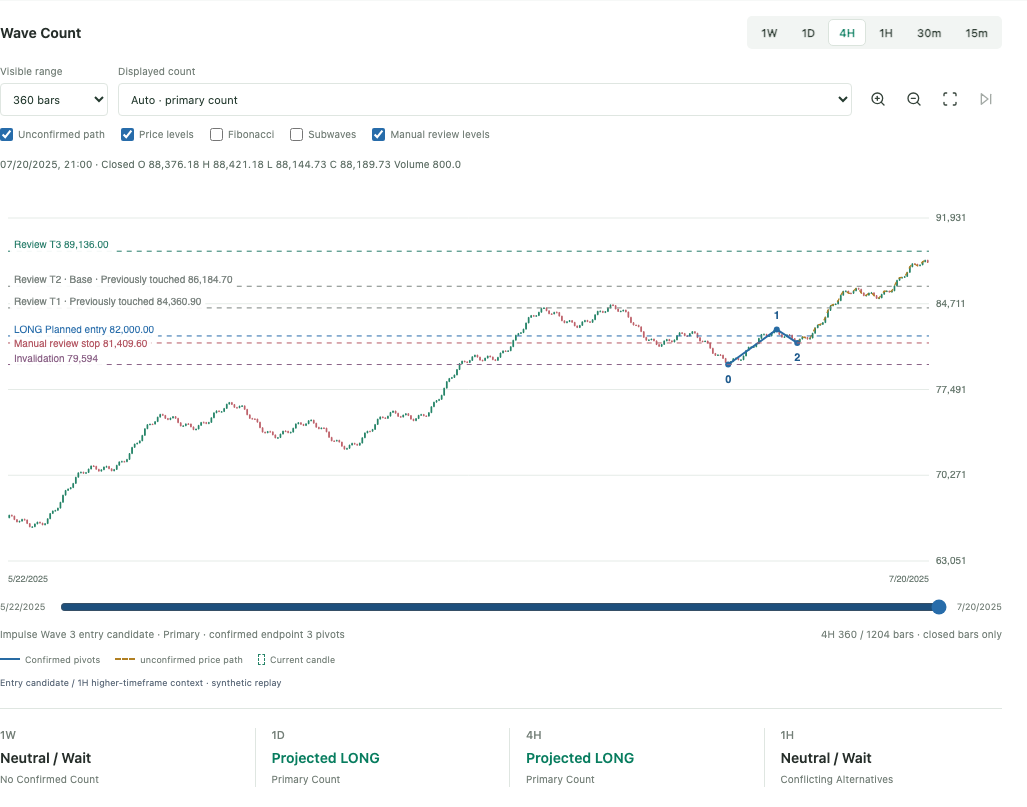
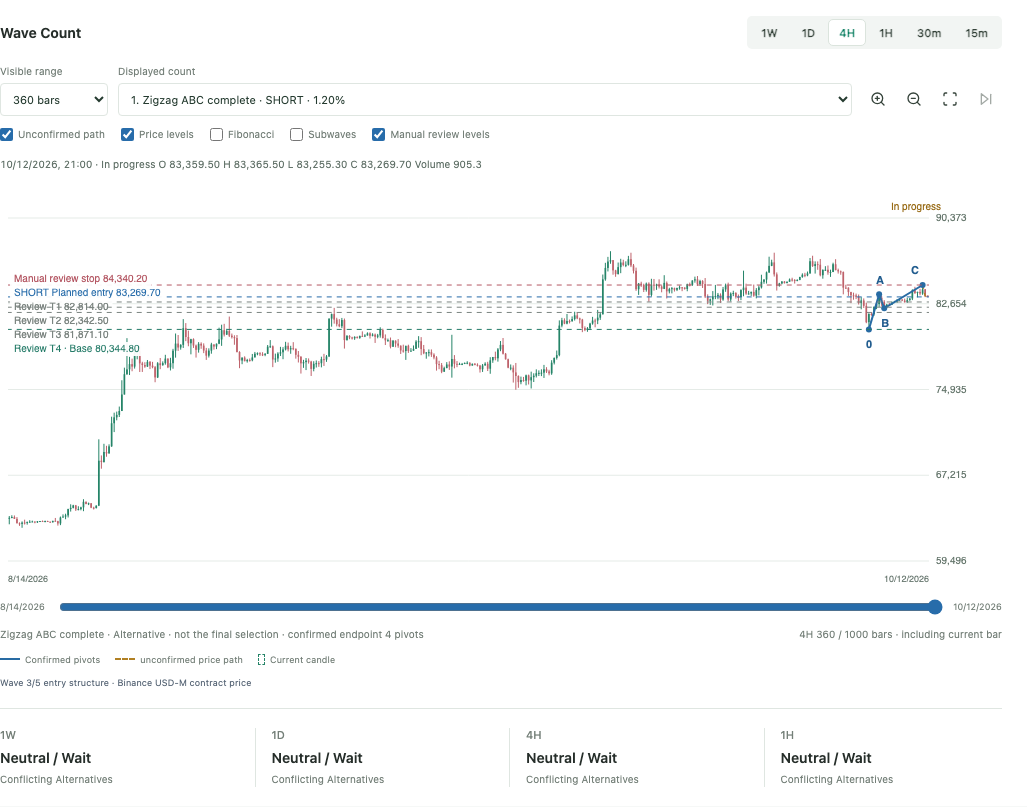
Refresh README wave charts with current market snapshots

diff --git a/elliottbot/static/i18n.js b/elliottbot/static/i18n.js
@@ -3,6 +3,7 @@
 
   const pairs = [
     ["시세 연결 중", "Connecting to market data"], ["시세 연결됨", "Market data connected"], ["시세 대기", "Waiting for market data"],
+    ["Binance USD-M 공개 실시간", "Binance USD-M public market data"], ["Binance USD-M 계약 체결가", "Binance USD-M contract price"], ["Binance DEMO 계약 체결가", "Binance Demo contract price"],
     ["비트코인", "Bitcoin"], ["엘리엇 파동", "Elliott Wave"], ["공개 선물 시세 연결 대기", "Waiting for public futures data"],
     ["시세 연결 대기", "Waiting for market data"], ["신규 진입 중단", "Entries paused"], ["자동매매 가동", "Trading active"],
     ["신규 진입 중단 상태", "New entries paused"], ["자동매매 시작", "Start trading"], ["진입 중단", "Pause entries"],

diff --git a/README.md b/README.md
@@ -14,9 +14,9 @@
 </div>
 
 <p align="center">
-  <img src="docs/images/analysis-sample.png" alt="Elliott BTC analysis dashboard with multi-timeframe candidates and a labeled wave chart" width="100%" />
+  <img src="docs/images/analysis-current.png" alt="Current Bitcoin multi-timeframe dashboard showing a 4H Elliott Wave chart and WAIT decision" width="100%" />
 </p>
-<p align="center"><sub>English interface · choose 한국어 in the header to switch · synthetic sample data · no exchange account connected</sub></p>
+<p align="center"><sub>English interface · choose 한국어 in the header to switch · Binance USD-M public market data · PAPER mode · no API credentials, exchange account, or live orders</sub></p>
 
 The interface defaults to English. Choose **한국어** from the **Language** menu in the header to switch; the selection is remembered in this browser.
 
@@ -33,15 +33,15 @@ The interface defaults to English. Choose **한국어** from the **Language** me
 
 ## Screenshots
 
-The screenshots below come from the running application in synthetic sample mode. No exchange account or live orders are involved.
+These static screenshots were captured from the running PAPER app using public Binance USD-M candles on **12 Oct 2026 (KST)**. No API credentials, exchange account, or live orders were used. The main dashboard shows `WAIT`; the count examples below are not trade recommendations.
 
 <table>
   <tr>
-    <td width="50%"><a href="docs/images/waves-4h-paper.png"><img src="docs/images/waves-4h-chart.png" alt="Four-hour Elliott Wave 3 candidate with confirmed pivots, stop, target, and invalidation" /></a><br /><sub>4H · Wave 3 candidate, confirmed 0–2 pivots, and key price levels</sub></td>
-    <td width="50%"><a href="docs/images/waves-30m-paper.png"><img src="docs/images/waves-30m-chart.png" alt="Thirty-minute Elliott Wave ABC correction candidate with confirmed pivots and key price levels" /></a><br /><sub>30m · Zigzag ABC completion candidate with confirmed 0/A/B/C pivots</sub></td>
+    <td width="50%"><img src="docs/images/waves-4h-chart.png" alt="Historical four-hour Elliott Wave 3 LONG candidate with confirmed pivots, stop, target, and invalidation" /><br /><sub>4H · Historical Wave 3 LONG example · 12 Oct 2026, 16:59 KST · fit 61.2/100, below the 70 minimum · not a current signal</sub></td>
+    <td width="50%"><img src="docs/images/waves-30m-chart.png" alt="Latest thirty-minute Elliott Wave ABC completion candidate projected SHORT, marked reference-only" /><br /><sub>30m · Latest ABC SHORT candidate · fit 64.5/100, below the 70 minimum · reference only, not the final count or an entry signal</sub></td>
   </tr>
   <tr>
-    <td><img src="docs/images/manual-levels.png" alt="Manual chart review with hypothetical entry, stop, invalidation, and target levels" /><br /><sub>Manual review · hypothetical entry, stop, invalidation, and target references</sub></td>
+    <td><img src="docs/images/manual-levels.png" alt="Manual chart review with a hypothetical SHORT entry, stop, invalidation, and target levels" /><br /><sub>Manual review · hypothetical SHORT at the snapshot price · not an exchange position</sub></td>
     <td><img src="docs/images/risk-settings-sample.png" alt="Risk settings for capital, leverage, trade risk, and daily limits" /><br /><sub>Risk controls · capital, leverage, and loss limits</sub></td>
   </tr>
 </table>

diff --git a/docs/README.ko.md b/docs/README.ko.md
@@ -14,9 +14,9 @@
 </div>
 
 <p align="center">
-  <img src="images/analysis-sample.png" alt="여러 시간봉 후보와 엘리엇 파동 차트가 표시된 분석 화면" width="100%" />
+  <img src="images/analysis-current.png" alt="현재 BTC 다중 시간봉 대시보드와 4시간봉 엘리엇 파동 차트, WAIT 판정" width="100%" />
 </p>
-<p align="center"><sub>영문 화면 · 상단 Language 메뉴에서 한국어 선택 가능 · 합성 샘플 시세 · 거래소 계정 미연결</sub></p>
+<p align="center"><sub>영문 화면 · 상단 Language 메뉴에서 한국어 선택 가능 · Binance USD-M 공개 시세 · PAPER 모드 · API 키·거래소 계정·실주문 미사용</sub></p>
 
 웹 앱은 영어가 기본 언어이며, 상단 **Language** 메뉴에서 **한국어**로 전환할 수 있습니다. 선택한 언어는 현재 브라우저에 저장됩니다.
 
@@ -33,15 +33,15 @@
 
 ## 화면
 
-아래 이미지는 실제 프로그램의 합성 샘플 모드에서 캡처했습니다. 거래소 계정 연결이나 실주문은 포함하지 않습니다.
+아래 이미지는 **2026년 10월 12일(KST)** 공개 Binance USD-M 캔들을 사용해 실제 PAPER 화면에서 캡처한 정적 스냅샷입니다. API 키·거래소 계정·실주문은 사용하지 않았습니다. 메인 화면의 판정은 `WAIT`이며, 아래 카운트 예시는 매매 추천이 아닙니다.
 
 <table>
   <tr>
-    <td width="50%"><a href="images/waves-4h-paper.png"><img src="images/waves-4h-chart.png" alt="확정 피벗, 손절, 목표와 무효화가 표시된 4시간봉 엘리엇 3파 후보" /></a><br /><sub>4시간봉 · 확정 0~2번 피벗과 주요 가격선이 표시된 3파 후보</sub></td>
-    <td width="50%"><a href="images/waves-30m-paper.png"><img src="images/waves-30m-chart.png" alt="확정 피벗과 주요 가격선이 표시된 30분봉 엘리엇 ABC 조정 후보" /></a><br /><sub>30분봉 · 확정 0·A·B·C 피벗이 표시된 지그재그 ABC 완료 후보</sub></td>
+    <td width="50%"><img src="images/waves-4h-chart.png" alt="확정 피벗, 손절, 목표와 무효화가 표시된 과거 4시간봉 엘리엇 3파 롱 후보" /><br /><sub>4시간봉 · 과거 3파 LONG 예시 · 2026년 10월 12일 16:59 KST · 적합도 61.2/100, 최소 기준 70 미달 · 현재 신호 아님</sub></td>
+    <td width="50%"><img src="images/waves-30m-chart.png" alt="참고 전용으로 표시된 최신 30분봉 엘리엇 ABC 완료 숏 후보" /><br /><sub>30분봉 · 최신 ABC SHORT 후보 · 적합도 64.5/100, 최소 기준 70 미달 · 참고용이며 최종 카운트나 진입 신호가 아님</sub></td>
   </tr>
   <tr>
-    <td><img src="images/manual-levels.png" alt="가정 진입가, 손절, 무효화, 목표선이 표시된 수동 검토 차트" /><br /><sub>수동 검토 · 가정 진입가, 손절, 무효화, 목표 참고선</sub></td>
+    <td><img src="images/manual-levels.png" alt="가정 SHORT 진입가, 손절, 무효화, 목표선이 표시된 수동 검토 차트" /><br /><sub>수동 검토 · 스냅샷 가격의 가정 SHORT · 거래소 포지션이 아님</sub></td>
     <td><img src="images/risk-settings-sample.png" alt="자본, 레버리지, 거래당 위험, 일일 한도 설정 화면" /><br /><sub>위험 설정 · 배정 자본, 레버리지, 손실 한도</sub></td>
   </tr>
 </table>
